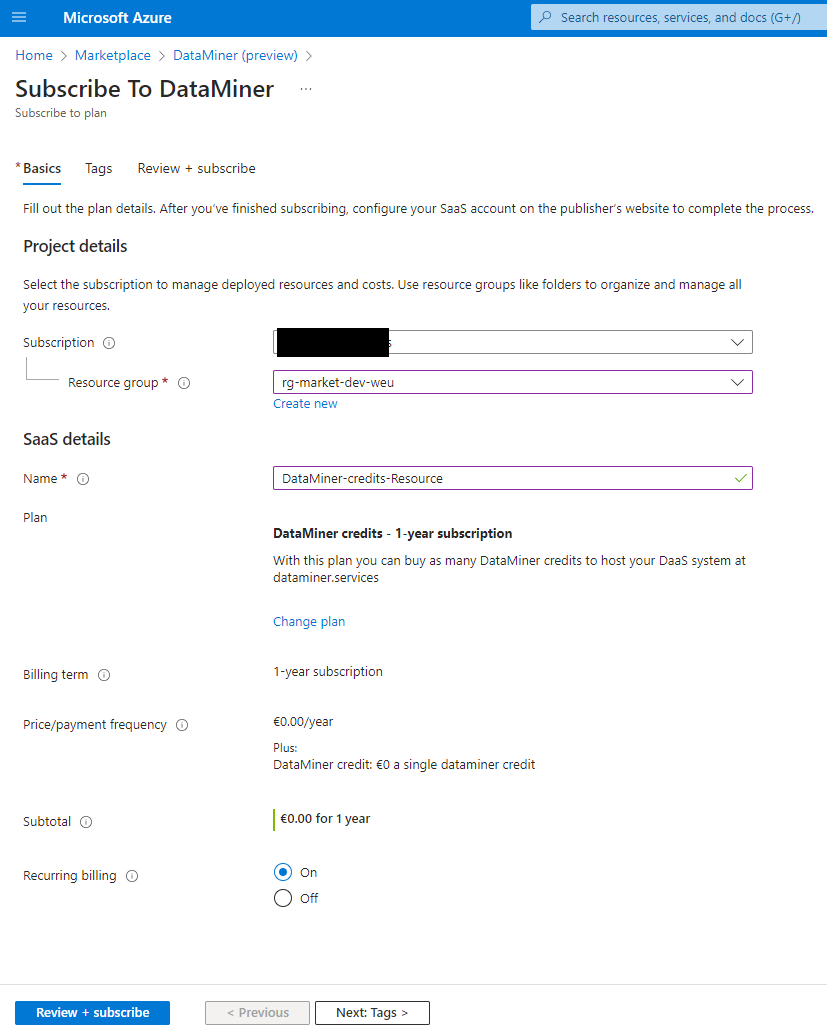
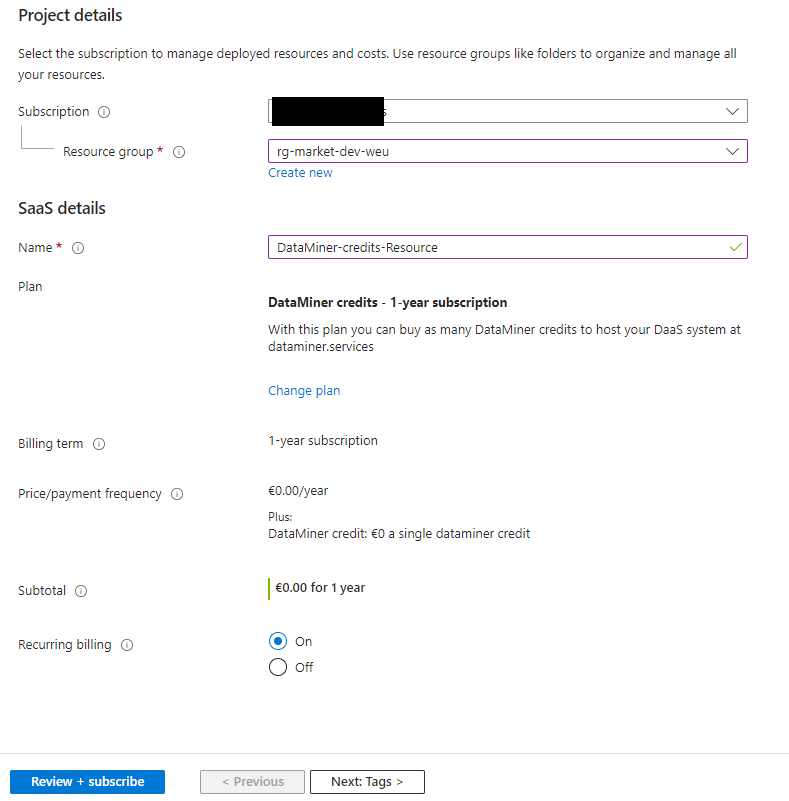
Final review

diff --git a/user-guide/Getting_started/DaaS/Order_DataMiner_credits.md b/user-guide/Getting_started/DaaS/Order_DataMiner_credits.md
@@ -13,17 +13,21 @@ To create and maintain a DaaS instance, your [organization](xref:Pricing_Usage_b
 
 1. Click *Get It Now* to be redirected to the Azure portal.
 
-1. Once you have been redirected to the Azure portal, use the dropdown to select the plan *DataMiner credits*.
+1. In the *Plan* box, select *DataMiner credits*.
 
-1. After you selected the plan, click on *Subscribe*.
-    ![Azure portal SaaS resource](~/user-guide/images/Azure-SaaS-Resource.png)
+1. Click *Subscribe*.
 
-1. Create a SaaS subscription resource in Azure.
-    > [!NOTE]
-    > 1. Provide a resource name for the SaaS subscription resource.
-    > 1. Assign the resource to a resource group.
-    > 1. Finally click on *Review + subscribe*.
-    ![Azure portal SaaS resource](~/user-guide/images/Azure-SaaS-Resource.png)
+   ![Azure portal SaaS resource](~/user-guide/images/Azure_Marketplace_Get_it_Now.png)
+
+1. Create a SaaS subscription resource in Azure:
+
+   1. Provide a resource name for the SaaS subscription resource.
+
+   1. Assign the resource to a resource group.
+
+   1. Click *Review + subscribe*.
+
+      ![Azure portal SaaS resource](~/user-guide/images/Azure-SaaS-Resource.png)
 
 1. Click *Configure account now*.
 
